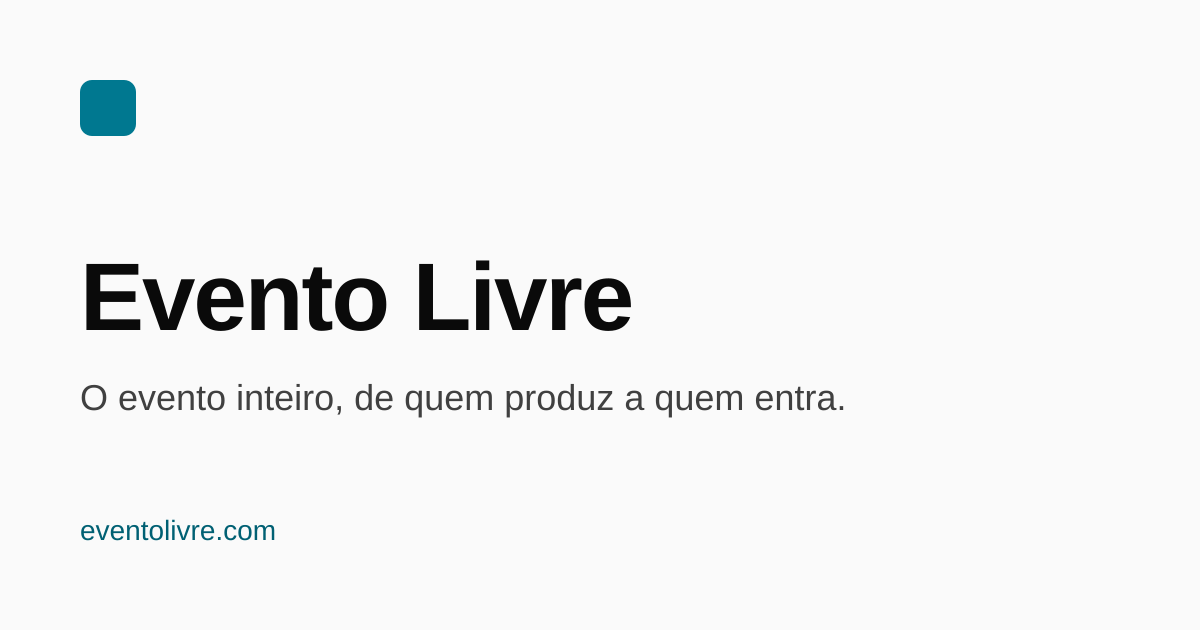
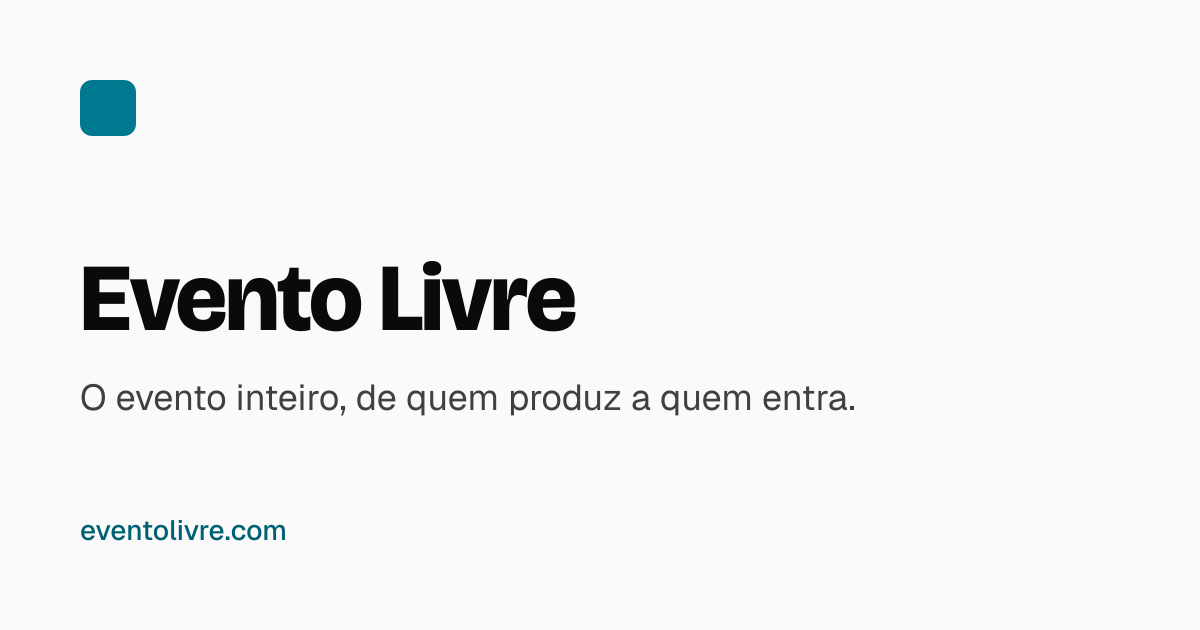
Safelist the design system's type utilities; add the OG image
Text composes type-${variant} at runtime, which Tailwind cannot scan, so
.type-title and .type-heading were missing from the bundle.

diff --git a/src/styles/global.css b/src/styles/global.css
@@ -1,5 +1,9 @@
 /* The only stylesheet. Tokens and utilities come from the design system.
    Tailwind v4 skips node_modules when scanning for classes, so the package
-   is declared as a source; without that line its components lose their styles. */
+   is declared as a source; without that line its components lose their styles.
+   The Text primitive composes `type-${variant}` at runtime, which no scanner
+   can see, so every text style is safelisted here. Keep the list equal to
+   the design system's textStyles; tests/build.test.ts checks the output. */
 @import "@evento-livre/design-system/src/styles/index.css";
 @source "../../node_modules/@evento-livre/design-system/src";
+@source inline("type-{display-xl,display-lg,title,heading,subheading,body,body-sm,label,caption,overline,numeric,code}");

diff --git a/tests/build.test.ts b/tests/build.test.ts
@@ -3,6 +3,7 @@
 import { describe, expect, test } from "bun:test";
 import { existsSync } from "node:fs";
 import { join } from "node:path";
+import { textStyles } from "@evento-livre/design-system/src/tokens/typography.ts";
 
 const dist = join(import.meta.dir, "..", "dist");
 
@@ -40,7 +41,9 @@ describe("built pages", () => {
     expect(css).toBeDefined();
     const sheet = await html(css!.slice(1));
     expect(sheet).toContain("--color-canvas");
-    expect(sheet).toContain(".type-display-xl");
+    for (const style of Object.keys(textStyles)) {
+      expect(sheet, style).toContain(`.type-${style}{`);
+    }
     expect(sheet).toContain("Bricolage Grotesque");
   });
 });

diff --git a/AGENTS.md b/AGENTS.md
@@ -36,6 +36,7 @@ README.md               status line and the three commands
 docs/
   decisions/            one file per decision (ADR style), numbered
   deploy.md             hosting evaluation and the owner's DNS runbook
+  og.svg                source of public/og.png
 .github/workflows/      deploy.yml: check, build, publish to Pages
 public/                 static files served as-is: robots, favicon, OG image
 src/
